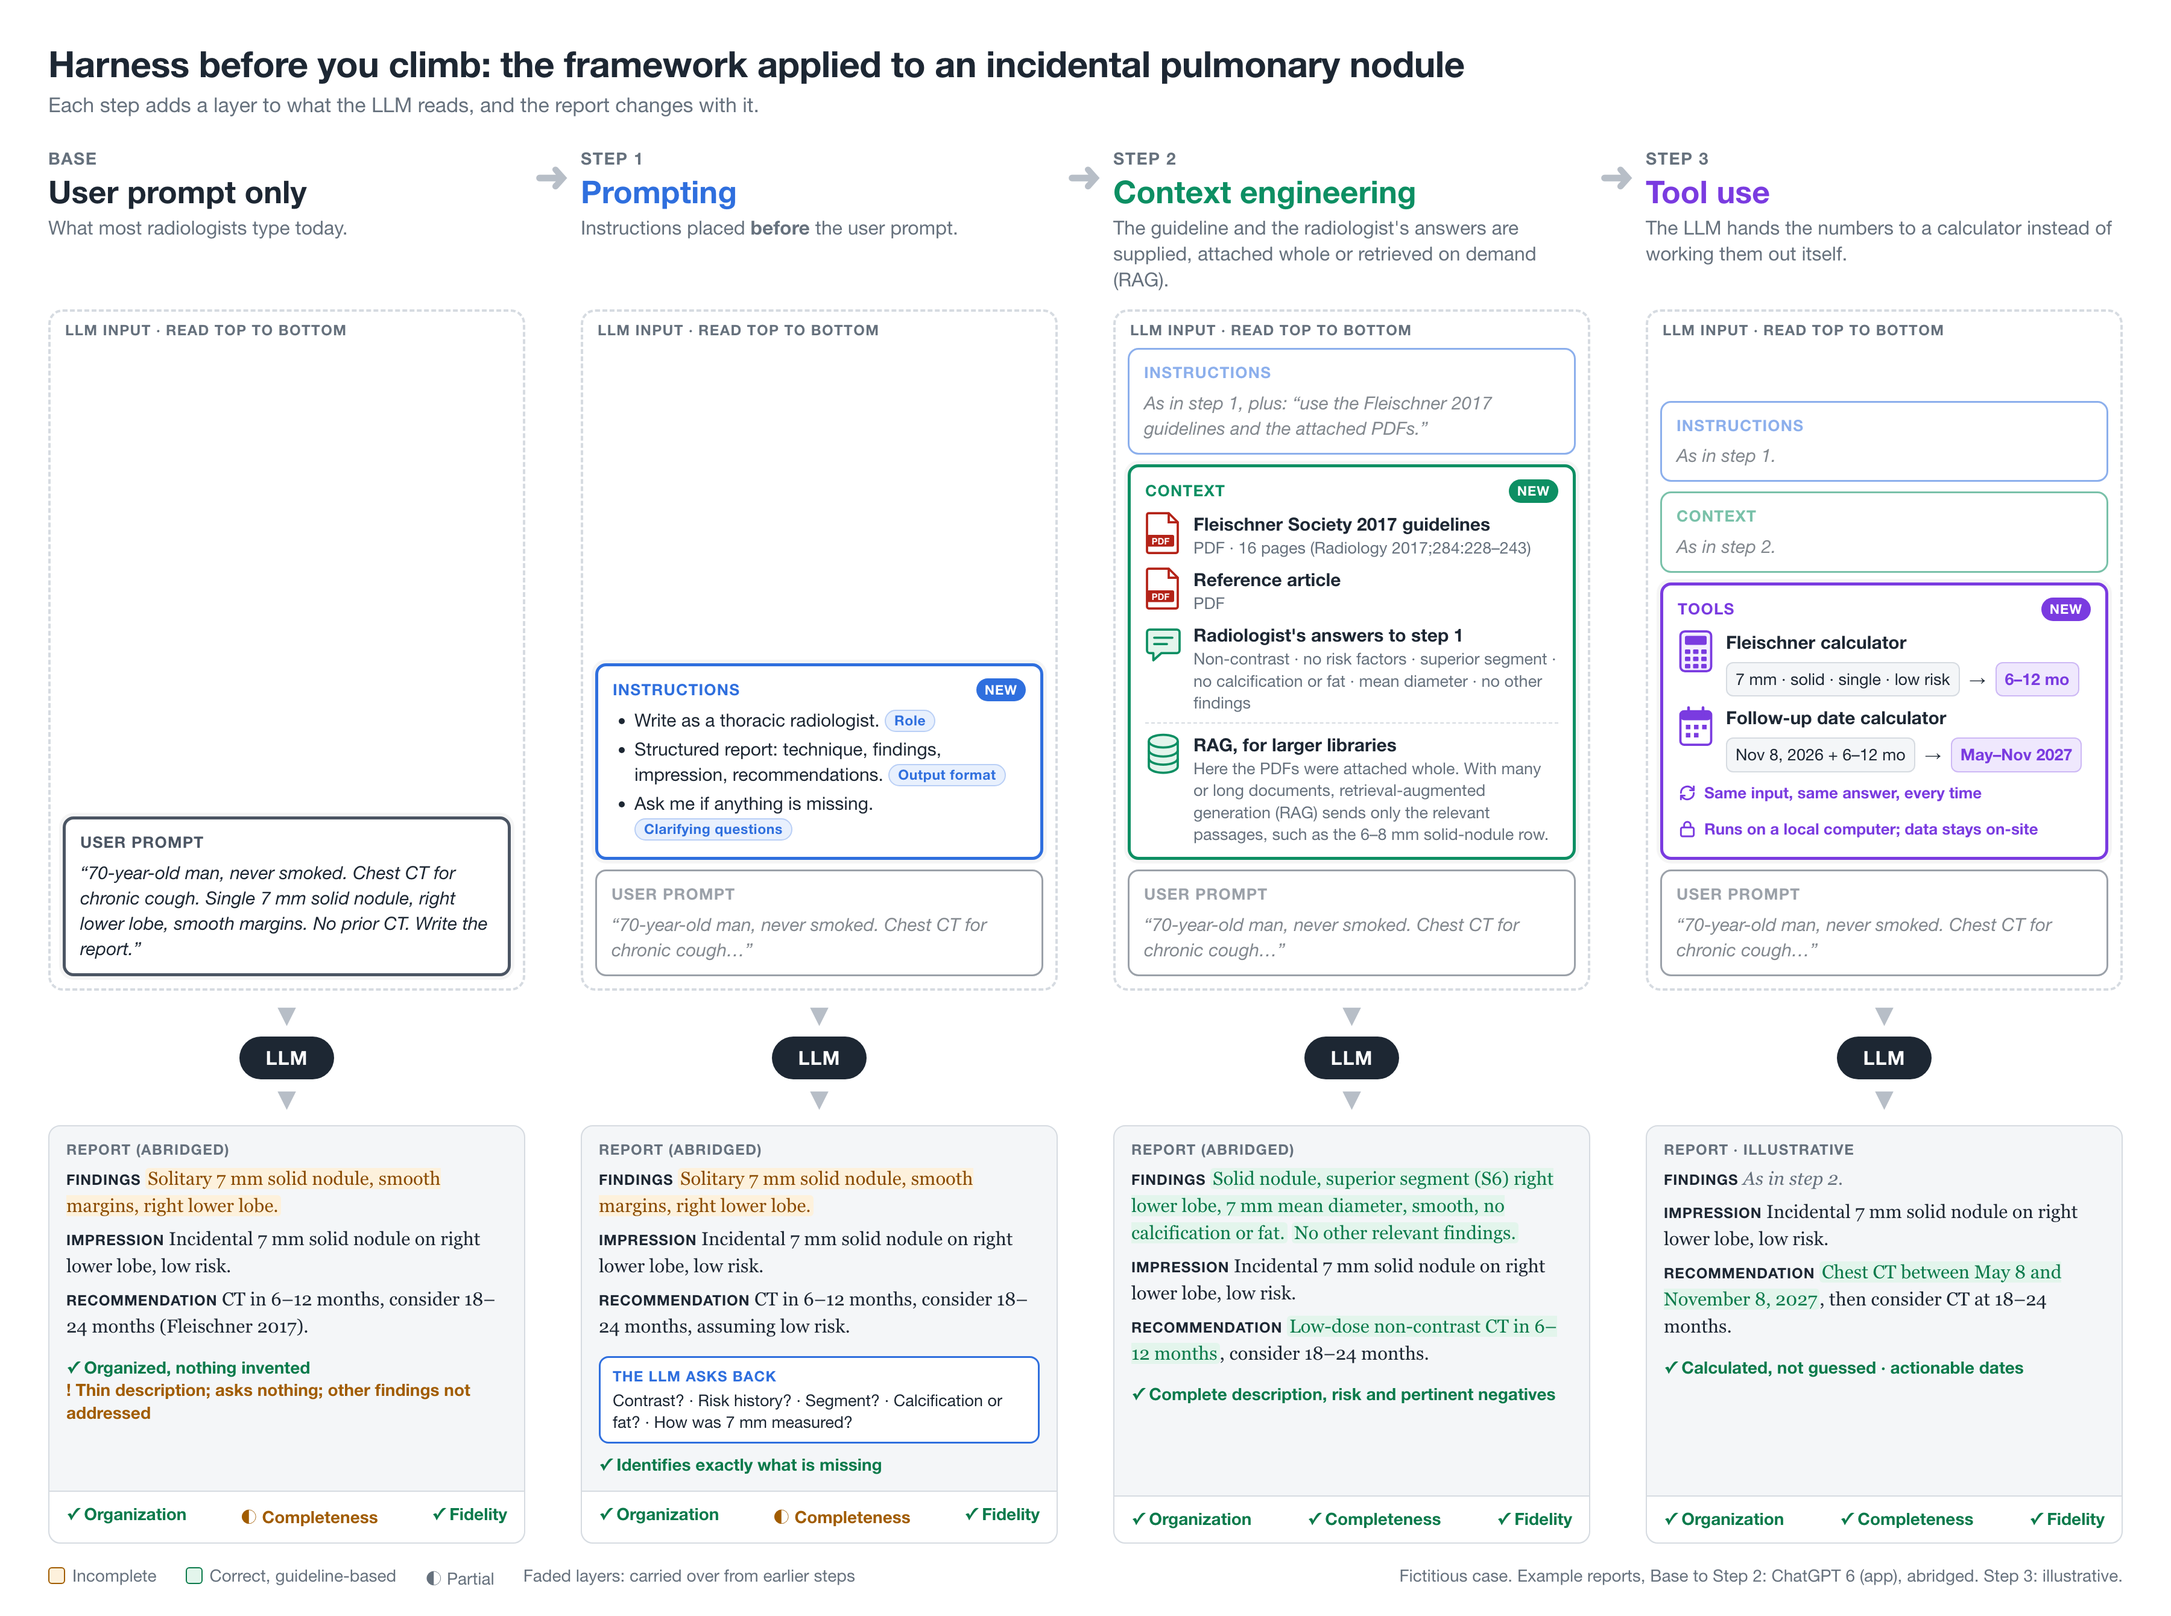
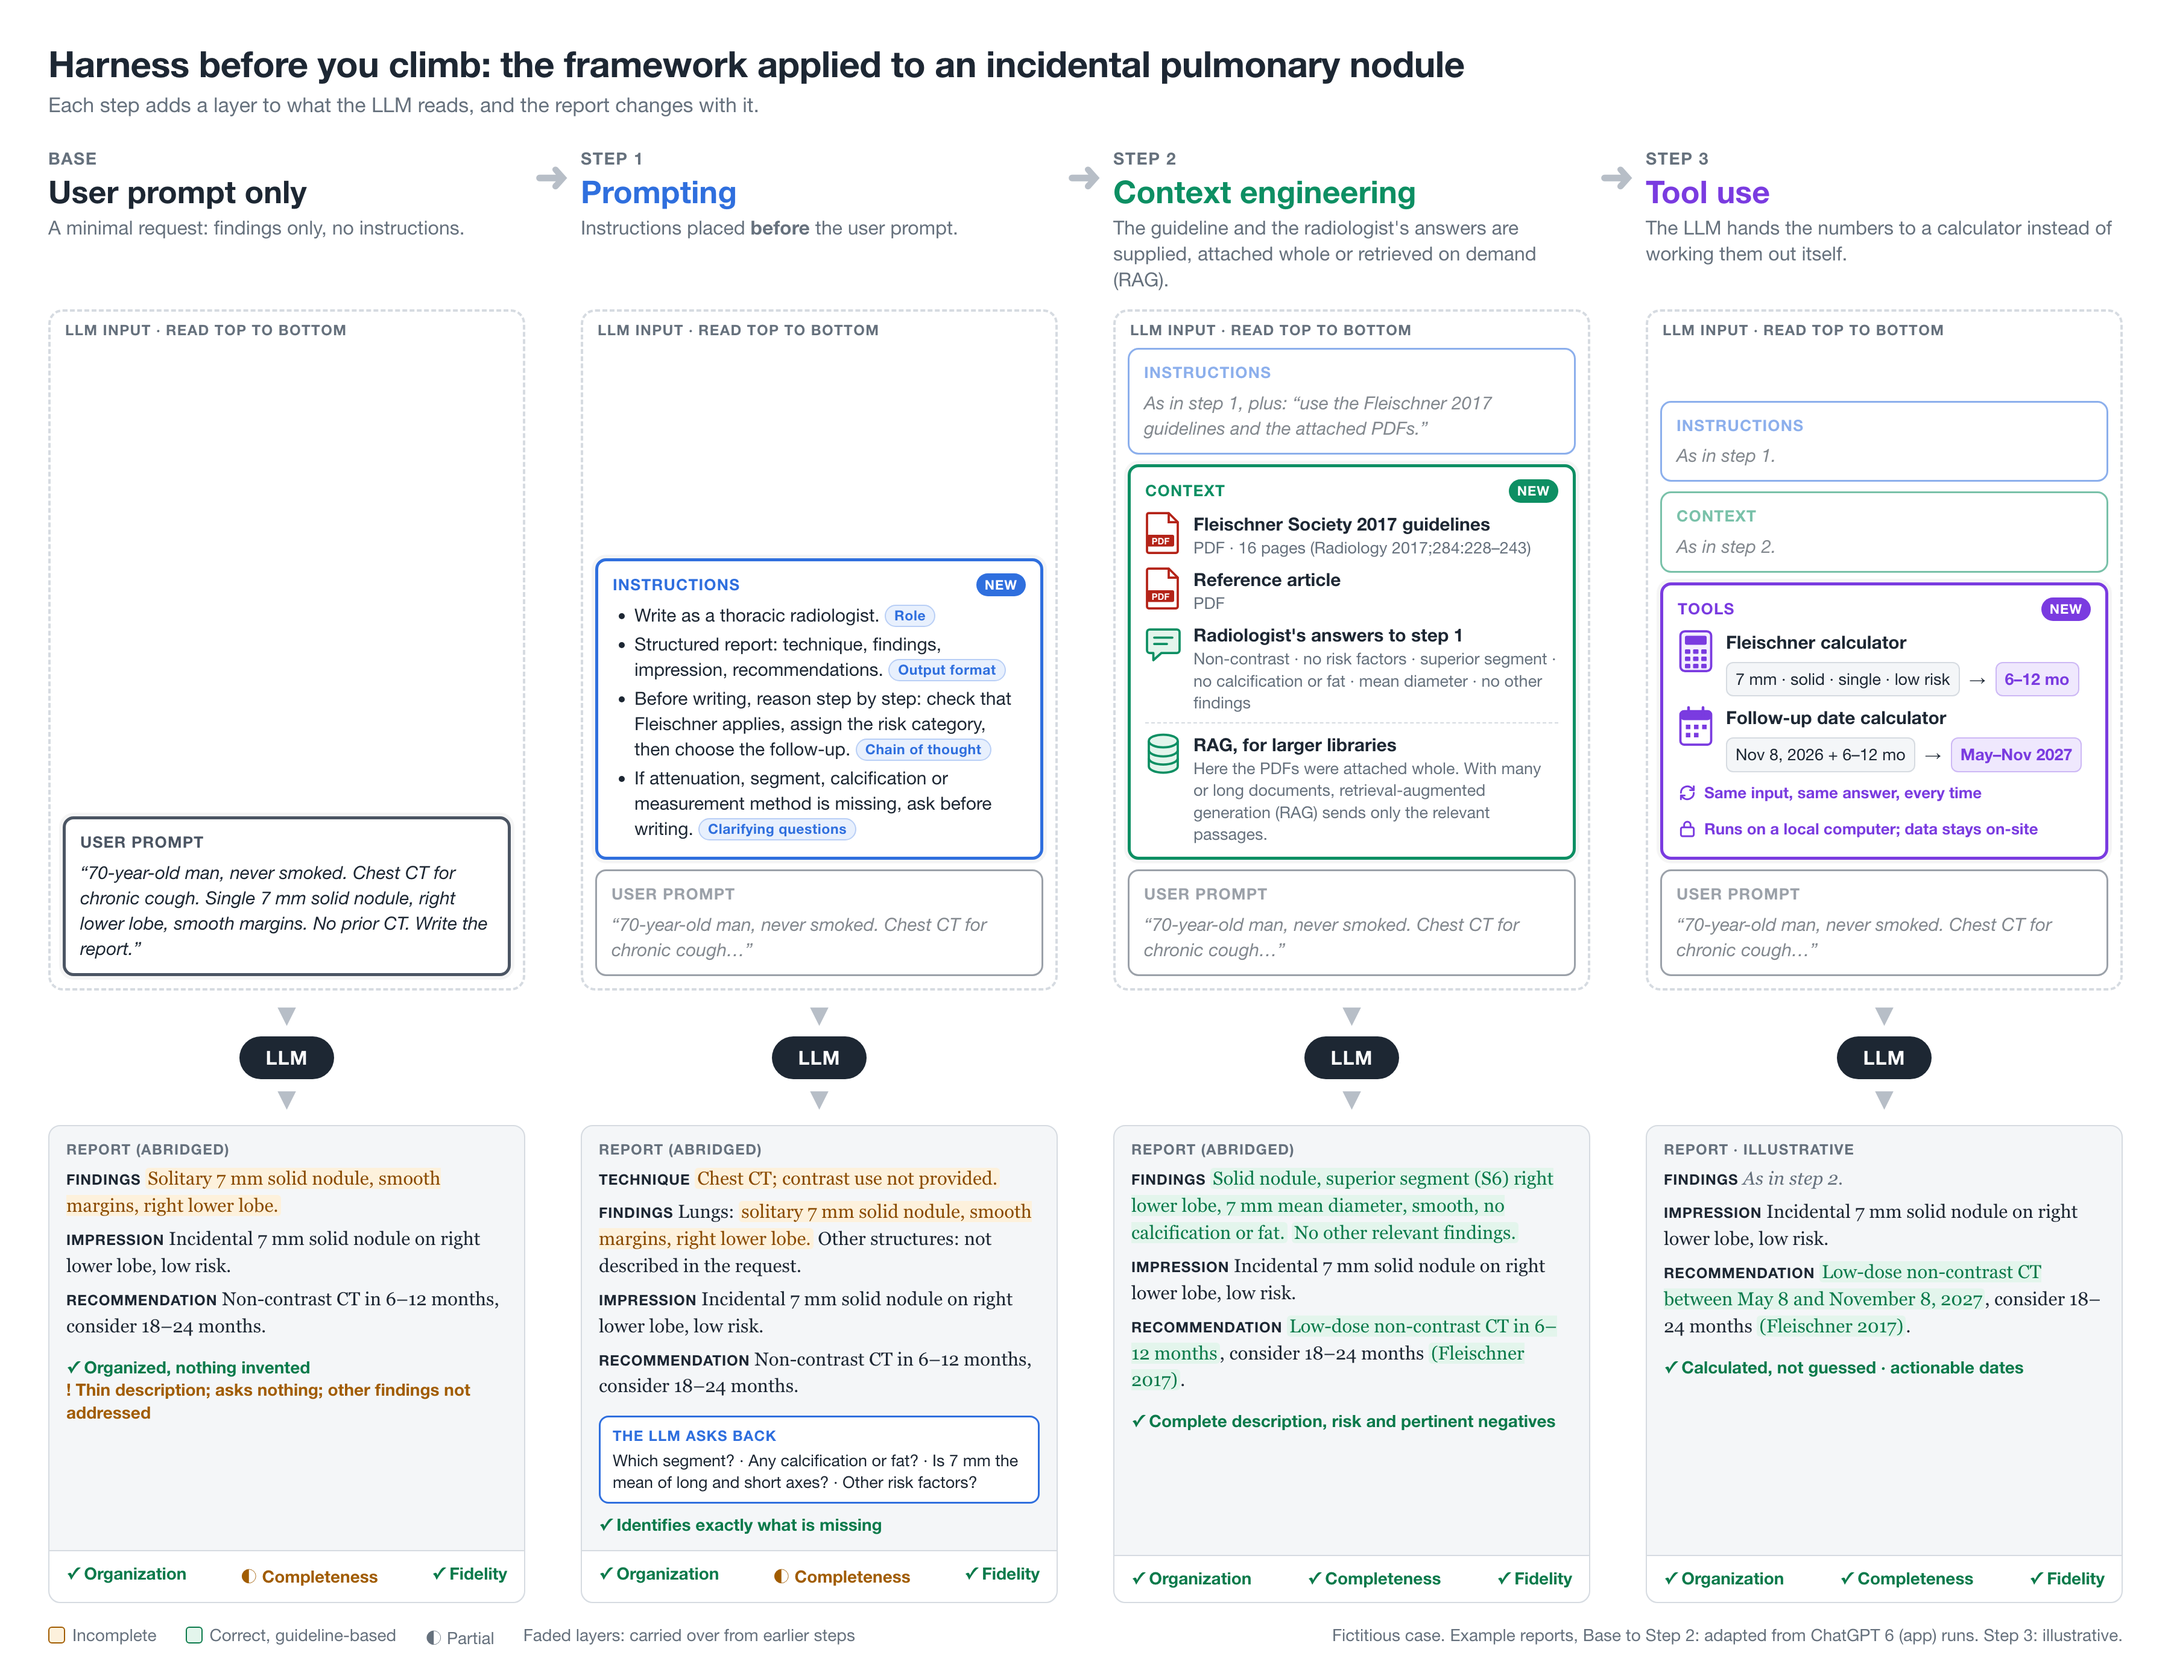
Update figure: chain-of-thought and nodule-specific prompting, Step 1 technique, Fleischner 2017 recommendations
- Base subtitle describes the input instead of radiologists
- Step 1 adds a chain-of-thought instruction and a nodule-specific clarifying question
- Step 1 report adds Technique and organizes Findings by structure
- Base and Step 1 use the non-contrast recommendation without citation
- Steps 2 and 3 use low-dose CT citing Fleischner 2017
- Shorten the RAG note

diff --git a/figure/pipeline.html b/figure/pipeline.html
@@ -185,7 +185,7 @@
       <div class="head">
         <div class="step">Base</div>
         <h2>User prompt only</h2>
-        <p>What most radiologists type today.</p>
+        <p>A minimal request: findings only, no instructions.</p>
       </div>
       <div class="stack">
         <div class="layer l-user new">
@@ -199,7 +199,7 @@
         <div class="report">
           <p><span class="sec">FINDINGS</span> <span class="gap">Solitary 7 mm solid nodule, smooth margins, right lower lobe.</span></p>
           <p><span class="sec">IMPRESSION</span> Incidental 7 mm solid nodule on right lower lobe, low risk.</p>
-          <p><span class="sec">RECOMMENDATION</span> CT in 6–12 months, consider 18–24 months (Fleischner 2017).</p>
+          <p><span class="sec">RECOMMENDATION</span> Non-contrast CT in 6–12 months, consider 18–24 months.</p>
         </div>
         <div class="verdict"><span class="v">✓ Organized, nothing invented</span><br><span class="w">! Thin description; asks nothing; other findings not addressed</span></div>
         <div class="checks"><span class="y">✓ Organization</span><span class="p">◐ Completeness</span><span class="y">✓ Fidelity</span></div>
@@ -219,7 +219,8 @@
           <ul>
             <li>Write as a thoracic radiologist. <span class="tech">Role</span></li>
             <li>Structured report: technique, findings, impression, recommendations. <span class="tech">Output format</span></li>
-            <li>Ask me if anything is missing. <span class="tech">Clarifying questions</span></li>
+            <li>Before writing, reason step by step: check that Fleischner applies, assign the risk category, then choose the follow-up. <span class="tech">Chain of thought</span></li>
+            <li>If attenuation, segment, calcification or measurement method is missing, ask before writing. <span class="tech">Clarifying questions</span></li>
           </ul>
         </div>
         <div class="layer l-user">
@@ -231,13 +232,14 @@
       <div class="out-box">
         <div class="lbl">Report (abridged)</div>
         <div class="report">
-          <p><span class="sec">FINDINGS</span> <span class="gap">Solitary 7 mm solid nodule, smooth margins, right lower lobe.</span></p>
+          <p><span class="sec">TECHNIQUE</span> <span class="gap">Chest CT; contrast use not provided.</span></p>
+          <p><span class="sec">FINDINGS</span> Lungs: <span class="gap">solitary 7 mm solid nodule, smooth margins, right lower lobe.</span> Other structures: not described in the request.</p>
           <p><span class="sec">IMPRESSION</span> Incidental 7 mm solid nodule on right lower lobe, low risk.</p>
-          <p><span class="sec">RECOMMENDATION</span> CT in 6–12 months, consider 18–24 months, assuming low risk.</p>
+          <p><span class="sec">RECOMMENDATION</span> Non-contrast CT in 6–12 months, consider 18–24 months.</p>
         </div>
         <div class="ask">
           <div class="ask-t">The LLM asks back</div>
-          Contrast? · Risk history? · Segment? · Calcification or fat? · How was 7 mm measured?
+          Which segment? · Any calcification or fat? · Is 7 mm the mean of long and short axes? · Other risk factors?
         </div>
         <div class="verdict"><span class="v">✓ Identifies exactly what is missing</span></div>
         <div class="checks"><span class="y">✓ Organization</span><span class="p">◐ Completeness</span><span class="y">✓ Fidelity</span></div>
@@ -272,7 +274,7 @@
           </div>
           <div class="item rag">
             <svg width="30" height="36"><use href="#i-db"/></svg>
-            <div><b>RAG, for larger libraries</b><small>Here the PDFs were attached whole. With many or long documents, retrieval-augmented generation (RAG) sends only the relevant passages, such as the 6–8 mm solid-nodule row.</small></div>
+            <div><b>RAG, for larger libraries</b><small>Here the PDFs were attached whole. With many or long documents, retrieval-augmented generation (RAG) sends only the relevant passages.</small></div>
           </div>
         </div>
         <div class="layer l-user">
@@ -286,7 +288,7 @@
         <div class="report">
           <p><span class="sec">FINDINGS</span> <span class="ok">Solid nodule, superior segment (S6) right lower lobe, 7 mm mean diameter, smooth, no calcification or fat.</span> <span class="ok">No other relevant findings.</span></p>
           <p><span class="sec">IMPRESSION</span> Incidental 7 mm solid nodule on right lower lobe, low risk.</p>
-          <p><span class="sec">RECOMMENDATION</span> <span class="ok">Low-dose non-contrast CT in 6–12 months</span>, consider 18–24 months.</p>
+          <p><span class="sec">RECOMMENDATION</span> <span class="ok">Low-dose non-contrast CT in 6–12 months</span>, consider 18–24 months <span class="ok">(Fleischner 2017)</span>.</p>
         </div>
         <div class="verdict"><span class="v">✓ Complete description, risk and pertinent negatives</span></div>
         <div class="checks"><span class="y">✓ Organization</span><span class="y">✓ Completeness</span><span class="y">✓ Fidelity</span></div>
@@ -337,7 +339,7 @@
         <div class="report">
           <p><span class="sec">FINDINGS</span> <span class="same">As in step 2.</span></p>
           <p><span class="sec">IMPRESSION</span> Incidental 7 mm solid nodule on right lower lobe, low risk.</p>
-          <p><span class="sec">RECOMMENDATION</span> <span class="ok">Chest CT between May 8 and November 8, 2027</span>, then consider CT at 18–24 months.</p>
+          <p><span class="sec">RECOMMENDATION</span> <span class="ok">Low-dose non-contrast CT between May 8 and November 8, 2027</span>, consider 18–24 months <span class="ok">(Fleischner 2017)</span>.</p>
         </div>
         <div class="verdict"><span class="v">✓ Calculated, not guessed · actionable dates</span></div>
         <div class="checks"><span class="y">✓ Organization</span><span class="y">✓ Completeness</span><span class="y">✓ Fidelity</span></div>
@@ -353,7 +355,7 @@
     <span>◐ Partial</span>
     <span>Faded layers: carried over from earlier steps</span>
     <span class="spacer"></span>
-    <span>Fictitious case. Example reports, Base to Step 2: ChatGPT 6 (app), abridged. Step 3: illustrative.</span>
+    <span>Fictitious case. Example reports, Base to Step 2: adapted from ChatGPT 6 (app) runs. Step 3: illustrative.</span>
   </footer>
 </div>
 </body>
